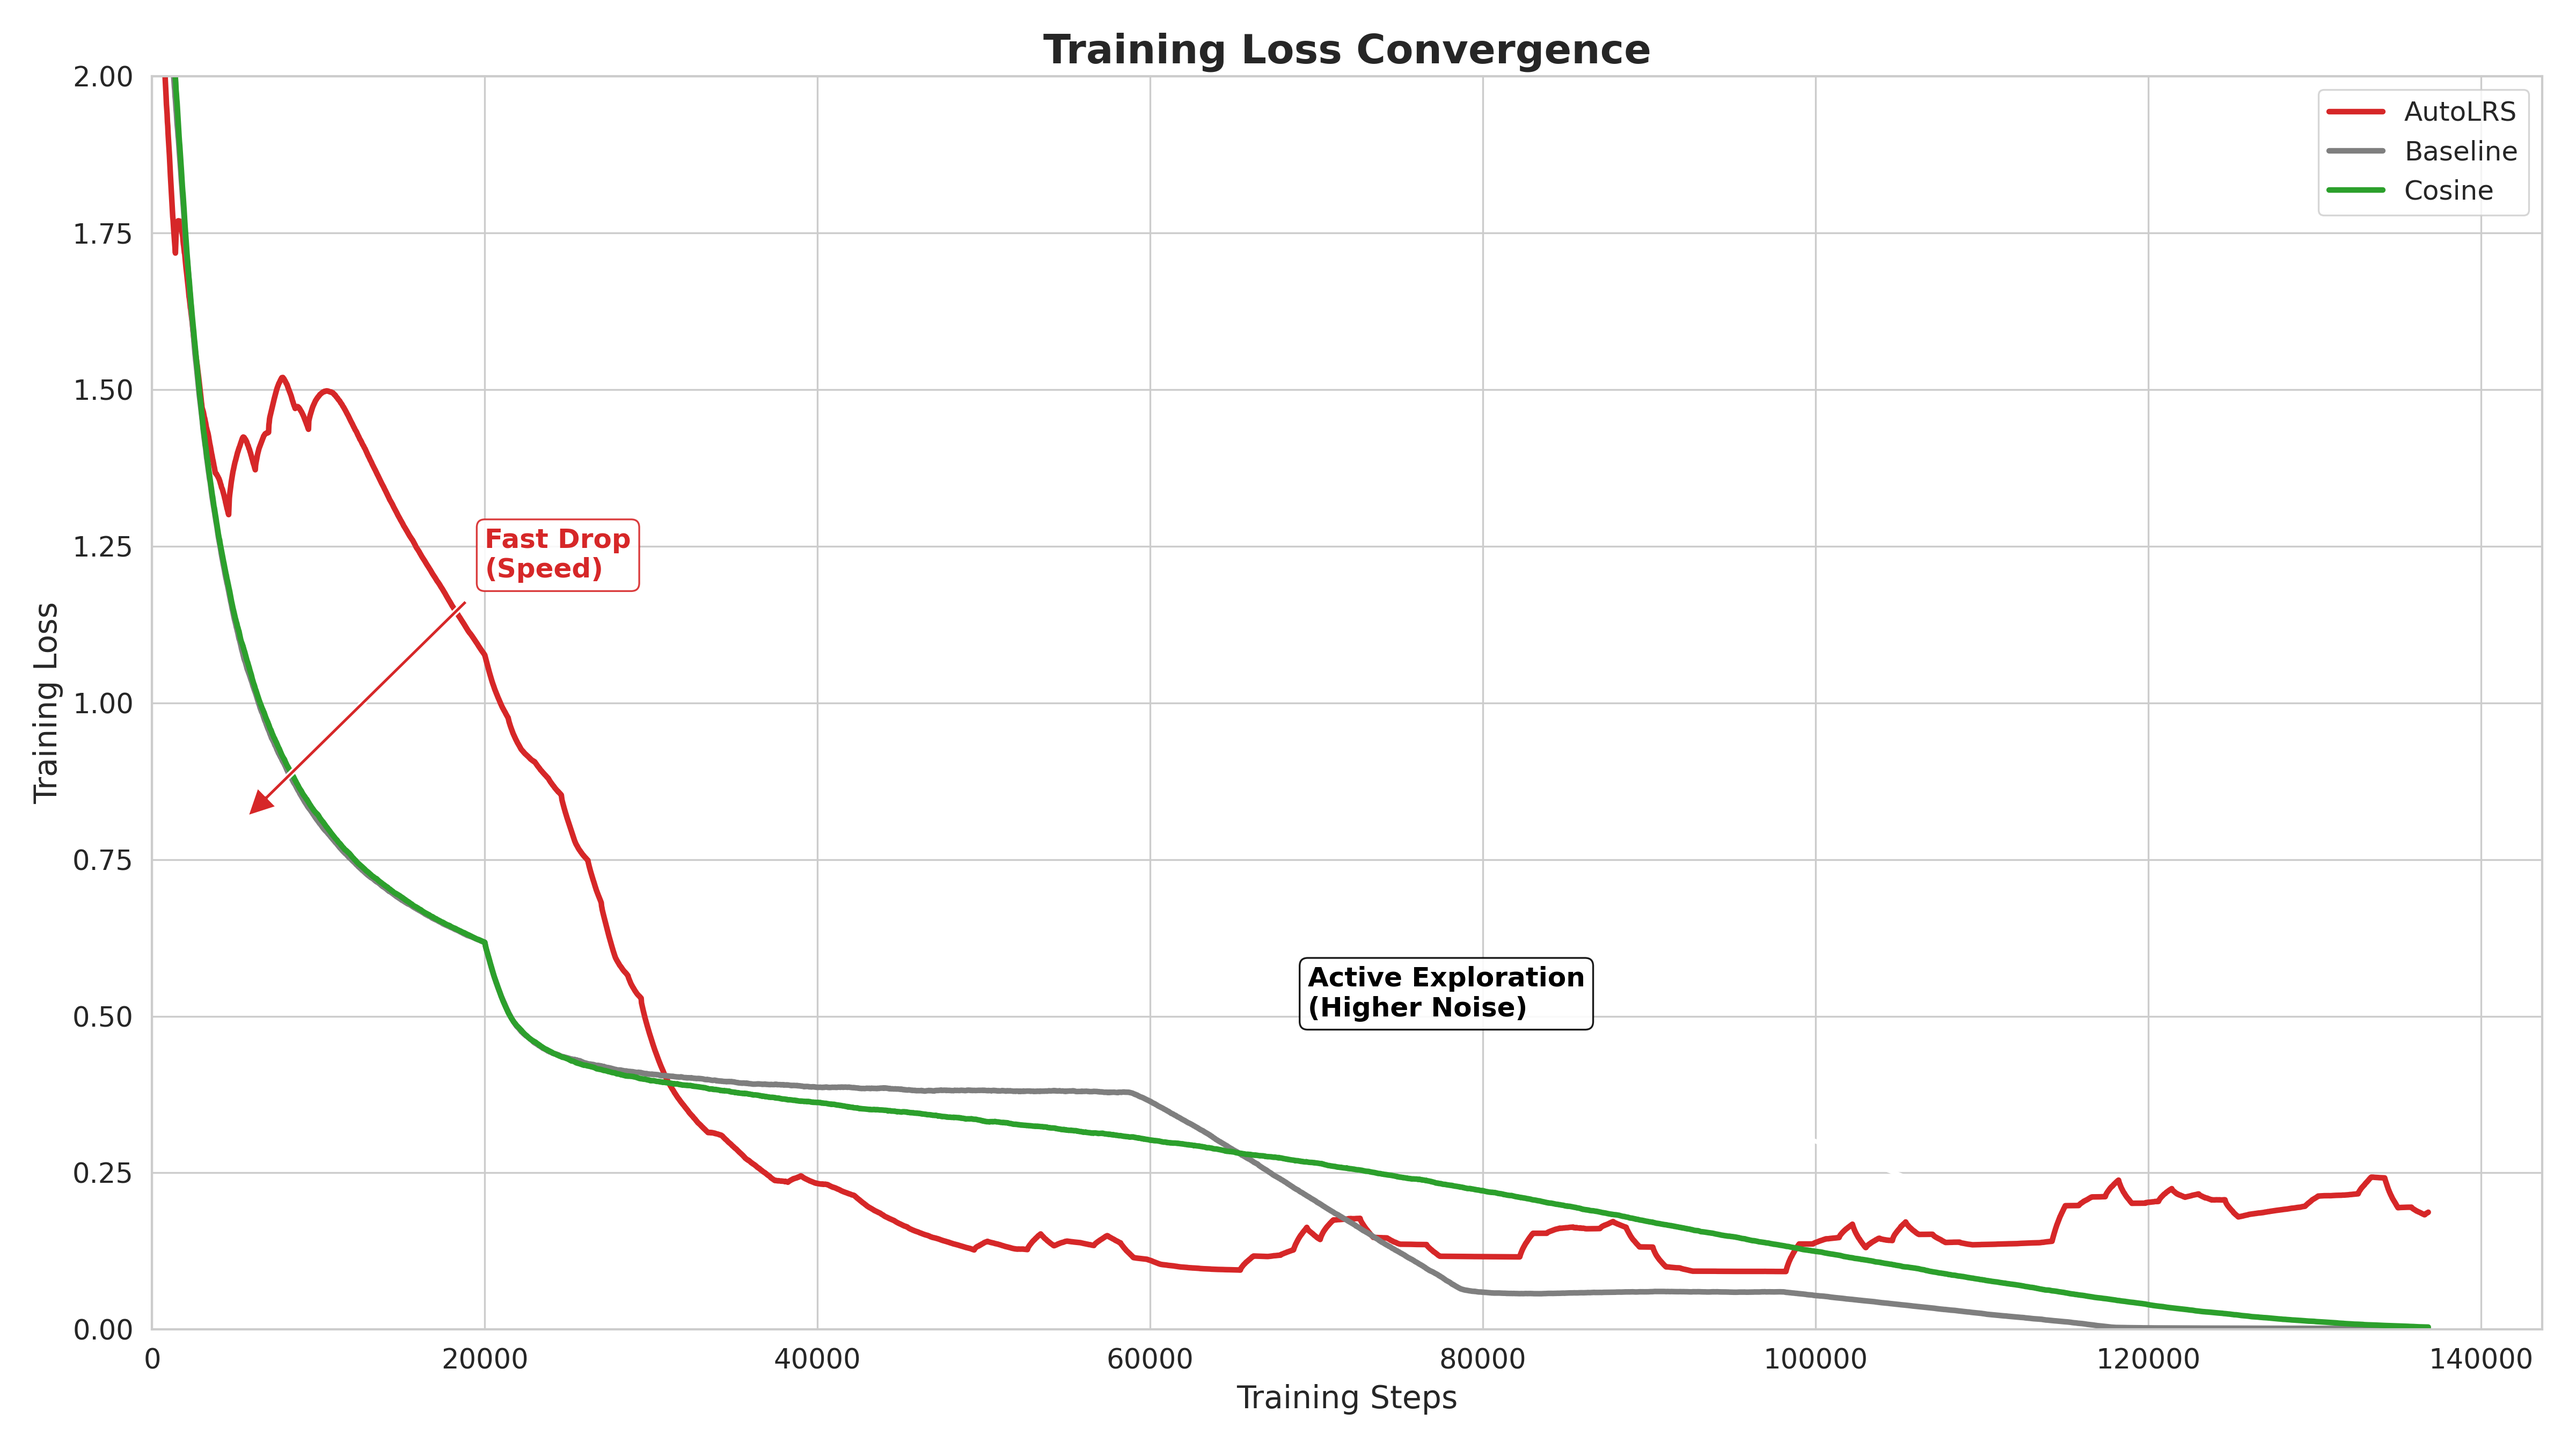
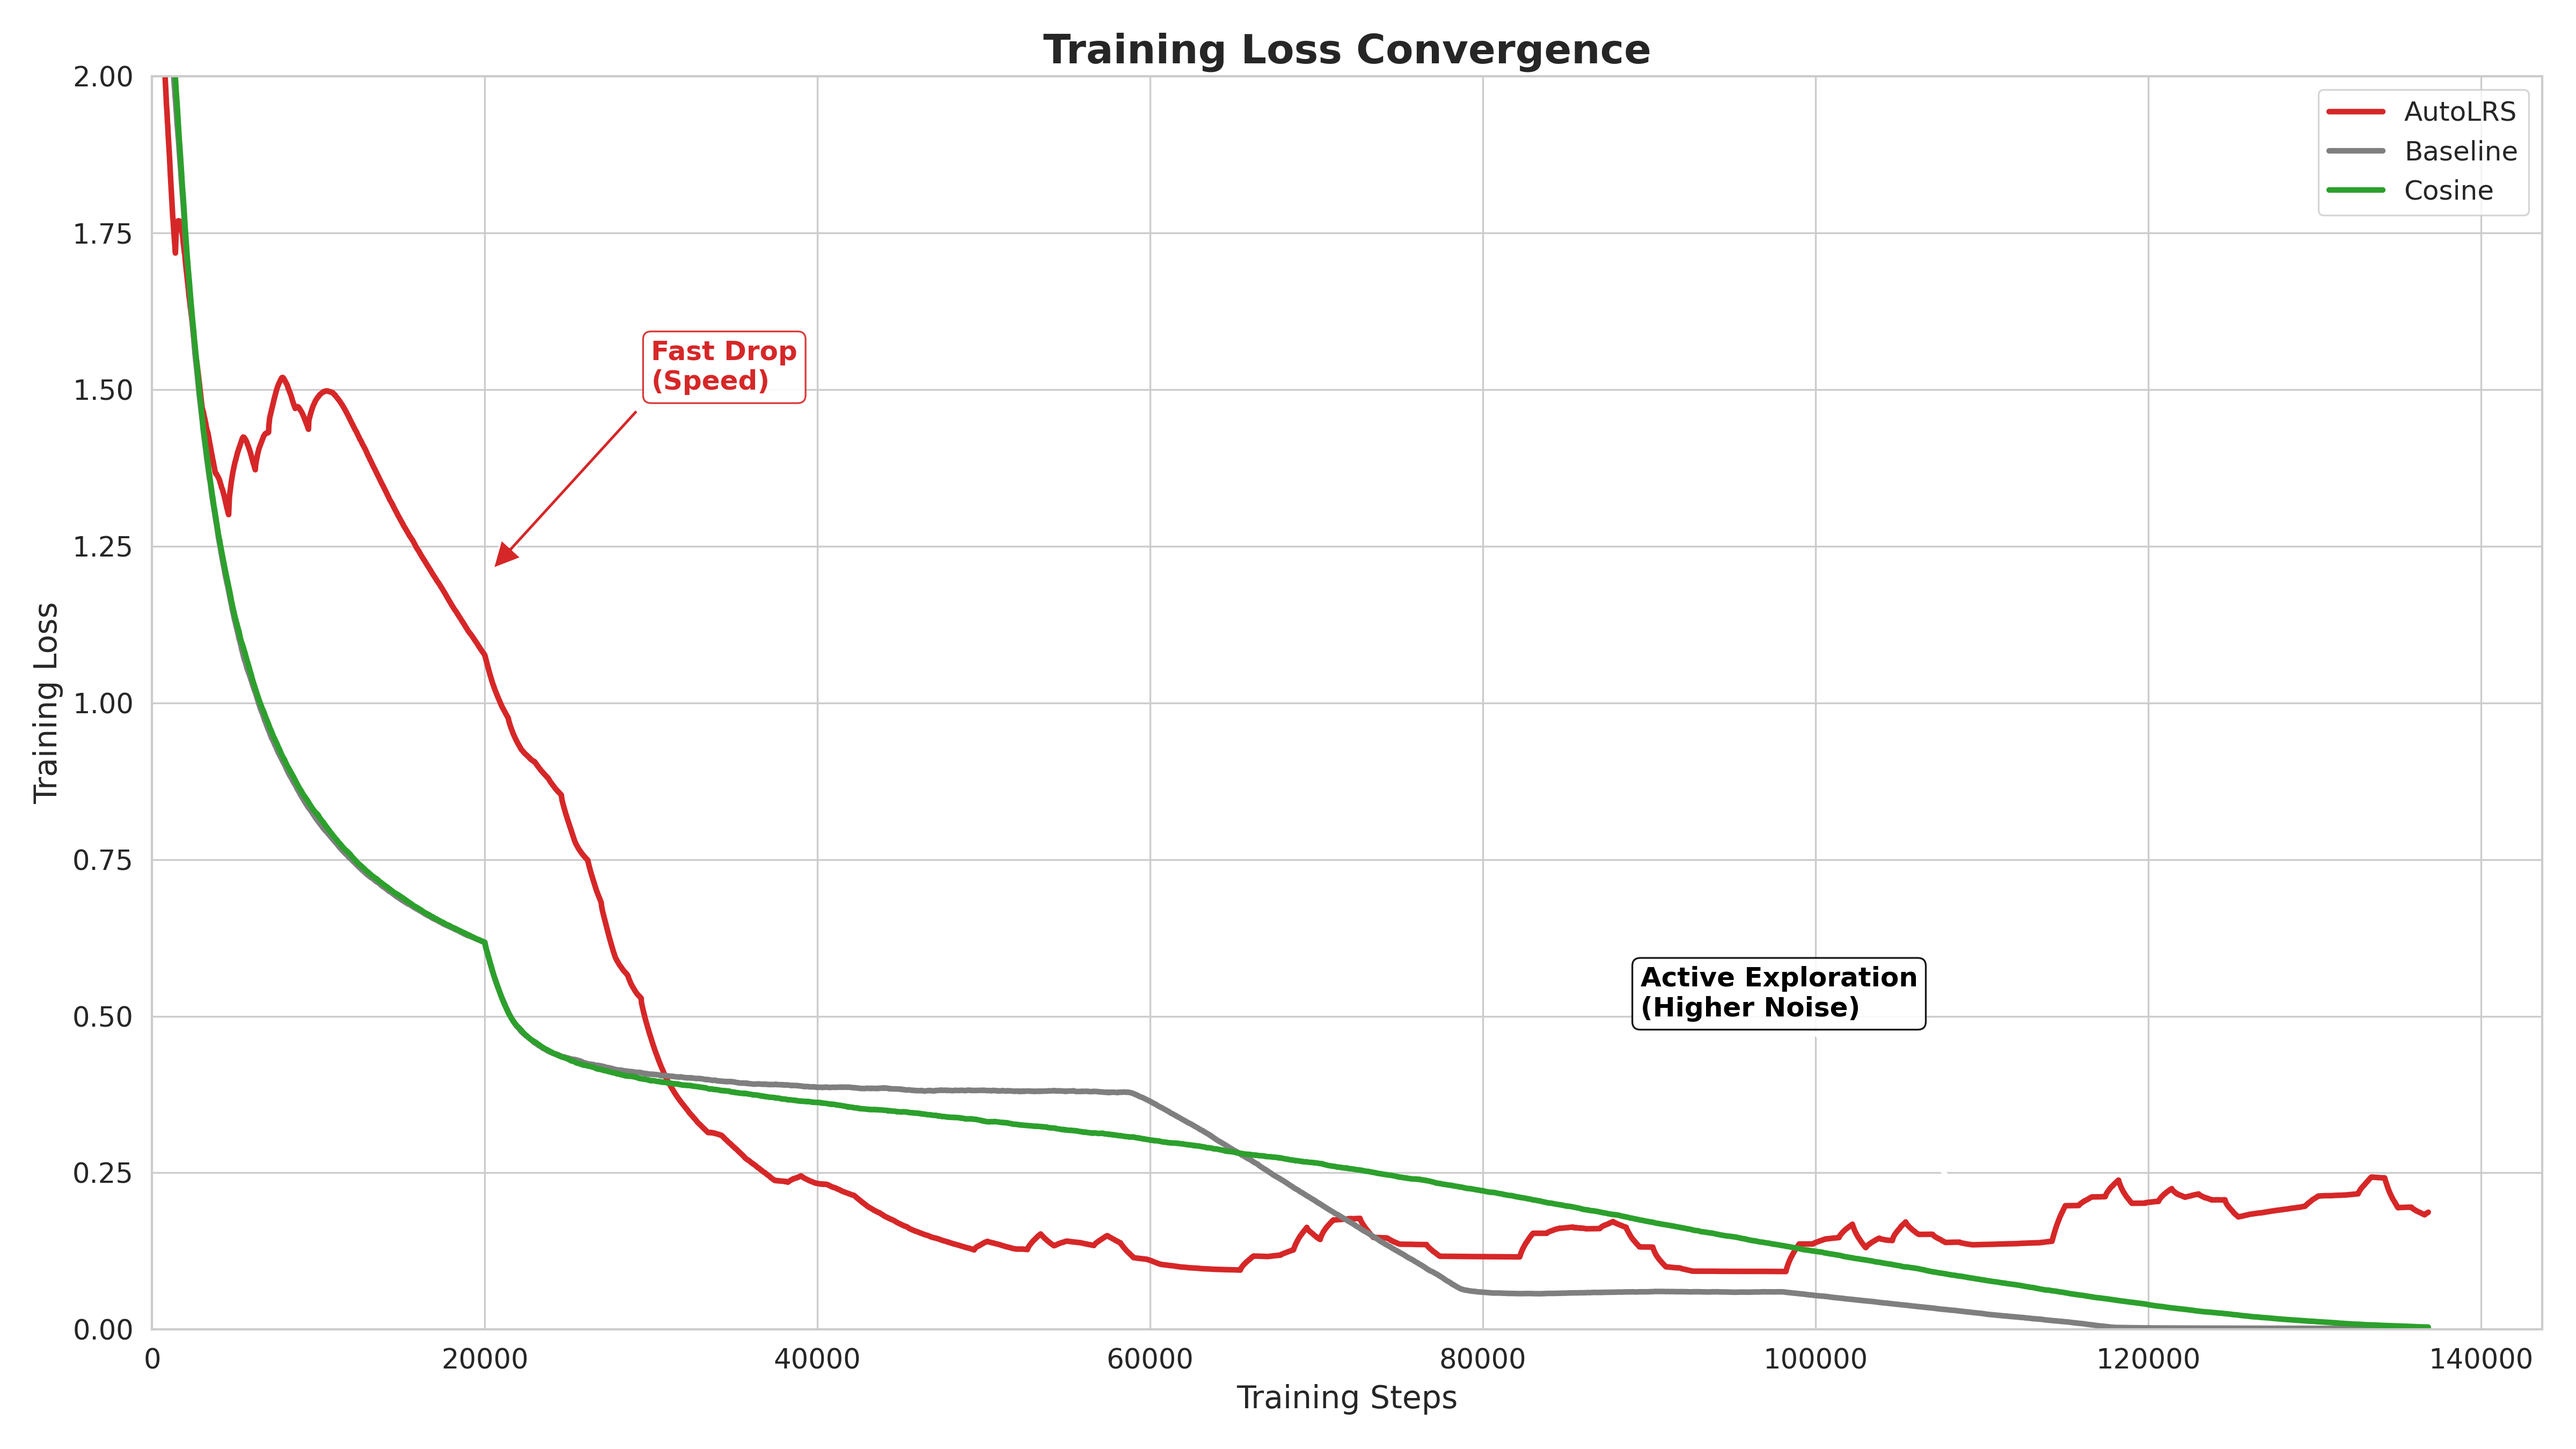
haind push

diff --git a/demo/plot_figure_2.py b/demo/plot_figure_2.py
@@ -49,8 +49,8 @@ def plot_figure_2():
     # --- HIGHLIGHT 1: FAST CONVERGENCE (ĐOẠN ĐẦU) ---
     # Mũi tên chỉ vào Step 5000, Loss ~1.0
     plt.annotate('Fast Drop\n(Speed)',
-                 xy=(5000, 0.8),  # Điểm mũi tên chỉ vào (Thấp xuống xíu cho dễ trúng đường đỏ)
-                 xytext=(20000, 1.2),  # Vị trí đặt chữ
+                 xy=(20000, 1.2),  # Điểm mũi tên chỉ vào (Thấp xuống xíu cho dễ trúng đường đỏ)
+                 xytext=(30000, 1.5),  # Vị trí đặt chữ
                  arrowprops=dict(facecolor='#d62728', shrink=0.05, width=2),
                  fontsize=12, fontweight='bold', color='#d62728',
                  bbox=dict(boxstyle="round,pad=0.3", fc="white", ec="#d62728", alpha=0.9))
@@ -62,7 +62,7 @@ def plot_figure_2():
 
     plt.annotate('Active Exploration\n(Higher Noise)',
                  xy=(target_step, 0.2),  # Điểm chỉ vào (Loss thấp ~0.2)
-                 xytext=(target_step - 40000, 0.5),  # Chữ đặt cao hơn và lùi về trái
+                 xytext=(target_step - 20000, 0.5),  # Chữ đặt cao hơn và lùi về trái
                  arrowprops=dict(facecolor='black', arrowstyle="->", lw=2),
                  fontsize=12, fontweight='bold', color='black',
                  bbox=dict(boxstyle="round,pad=0.3", fc="white", ec="black", alpha=0.9))
